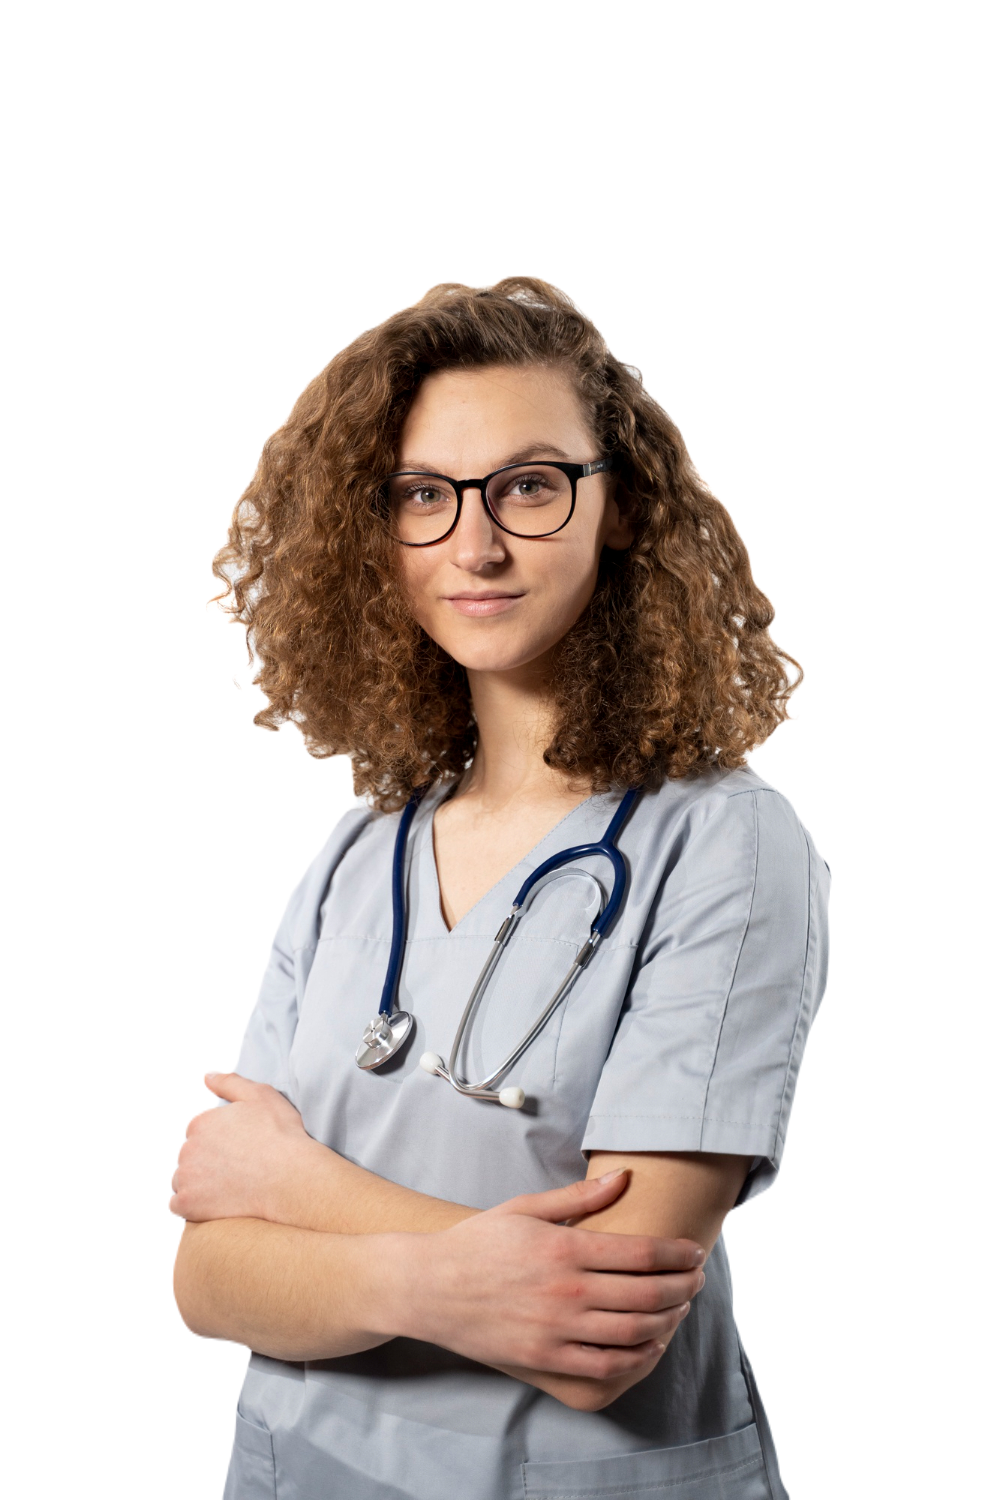
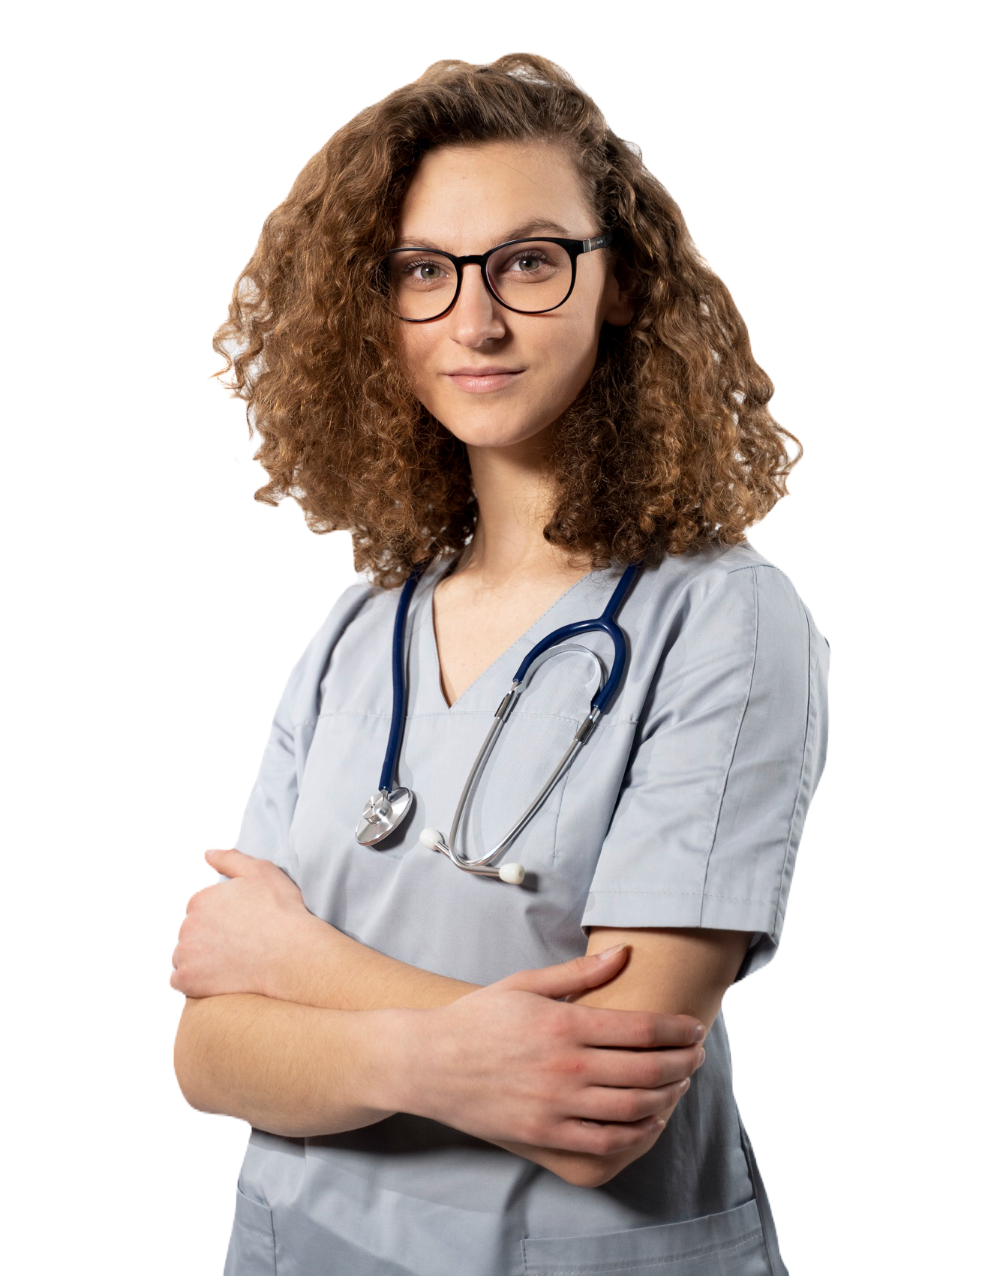
commit by bilal

diff --git a/index.html b/index.html
@@ -27,7 +27,7 @@
         <li class="nav-item"><a href="index.html" class="nav-link">Home</a></li>
         <li class="nav-item"><a href="#" class="nav-link">About Us</a></li>
         <li class="nav-item"><a href="#" class="nav-link">Dental Store</a></li>
-        <li class="nav-item"><a href="#" class="nav-link">Contact Us</a></li>
+        <li class="nav-item"><a href="" class="nav-link">Contact Us</a></li>
       </ul>
       <a href="#" class="btn btn-primary">Book Appointment</a>
       <div class="menu-toggle">

diff --git a/css/style.css b/css/style.css
@@ -127,7 +127,7 @@ body {
     display: flex;
     justify-content: space-between;
     align-items: center;
-    margin-top: 15px;
+    margin-top: 62px;
 }
 
 .hero-content {
@@ -159,7 +159,7 @@ body {
 .hero-image img {
     width: 500px;
     position: relative;
-    bottom: 75px;
+    bottom: 30px;
 }
 
 .about-section {
